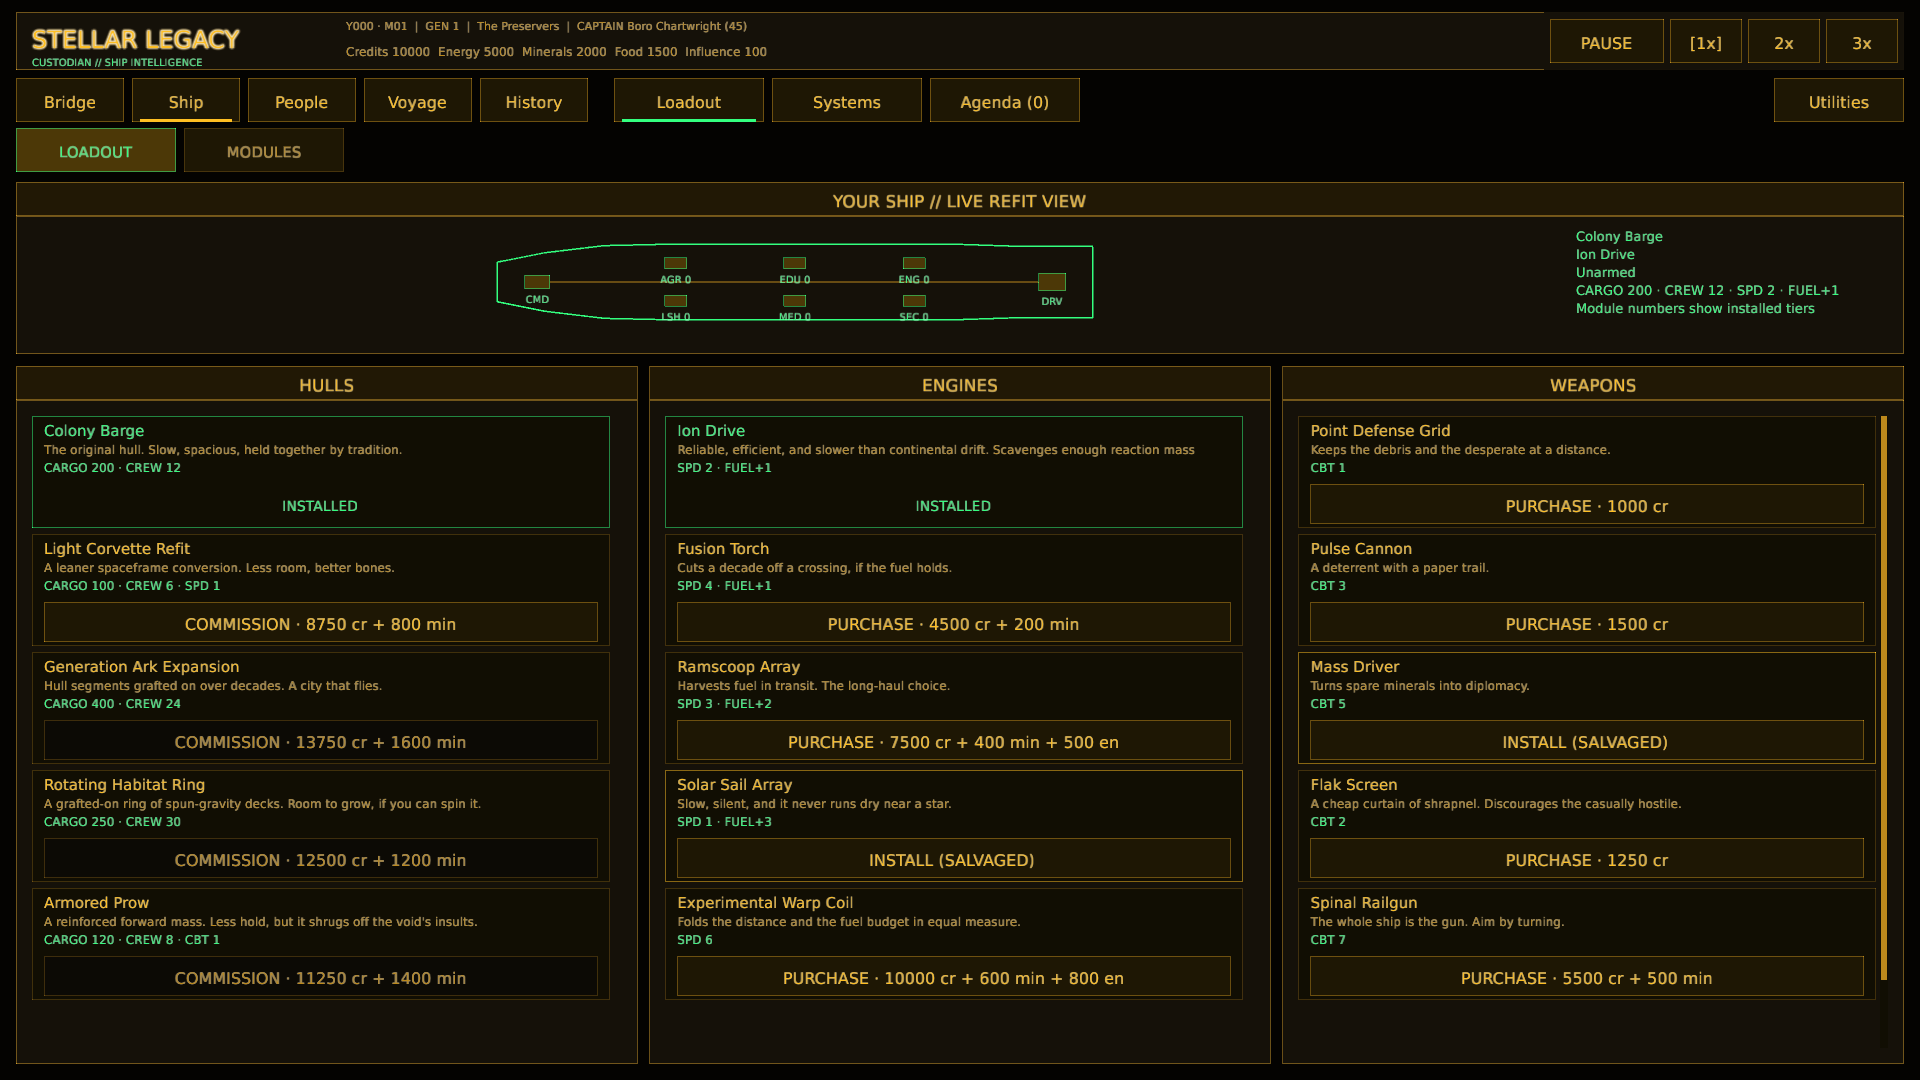
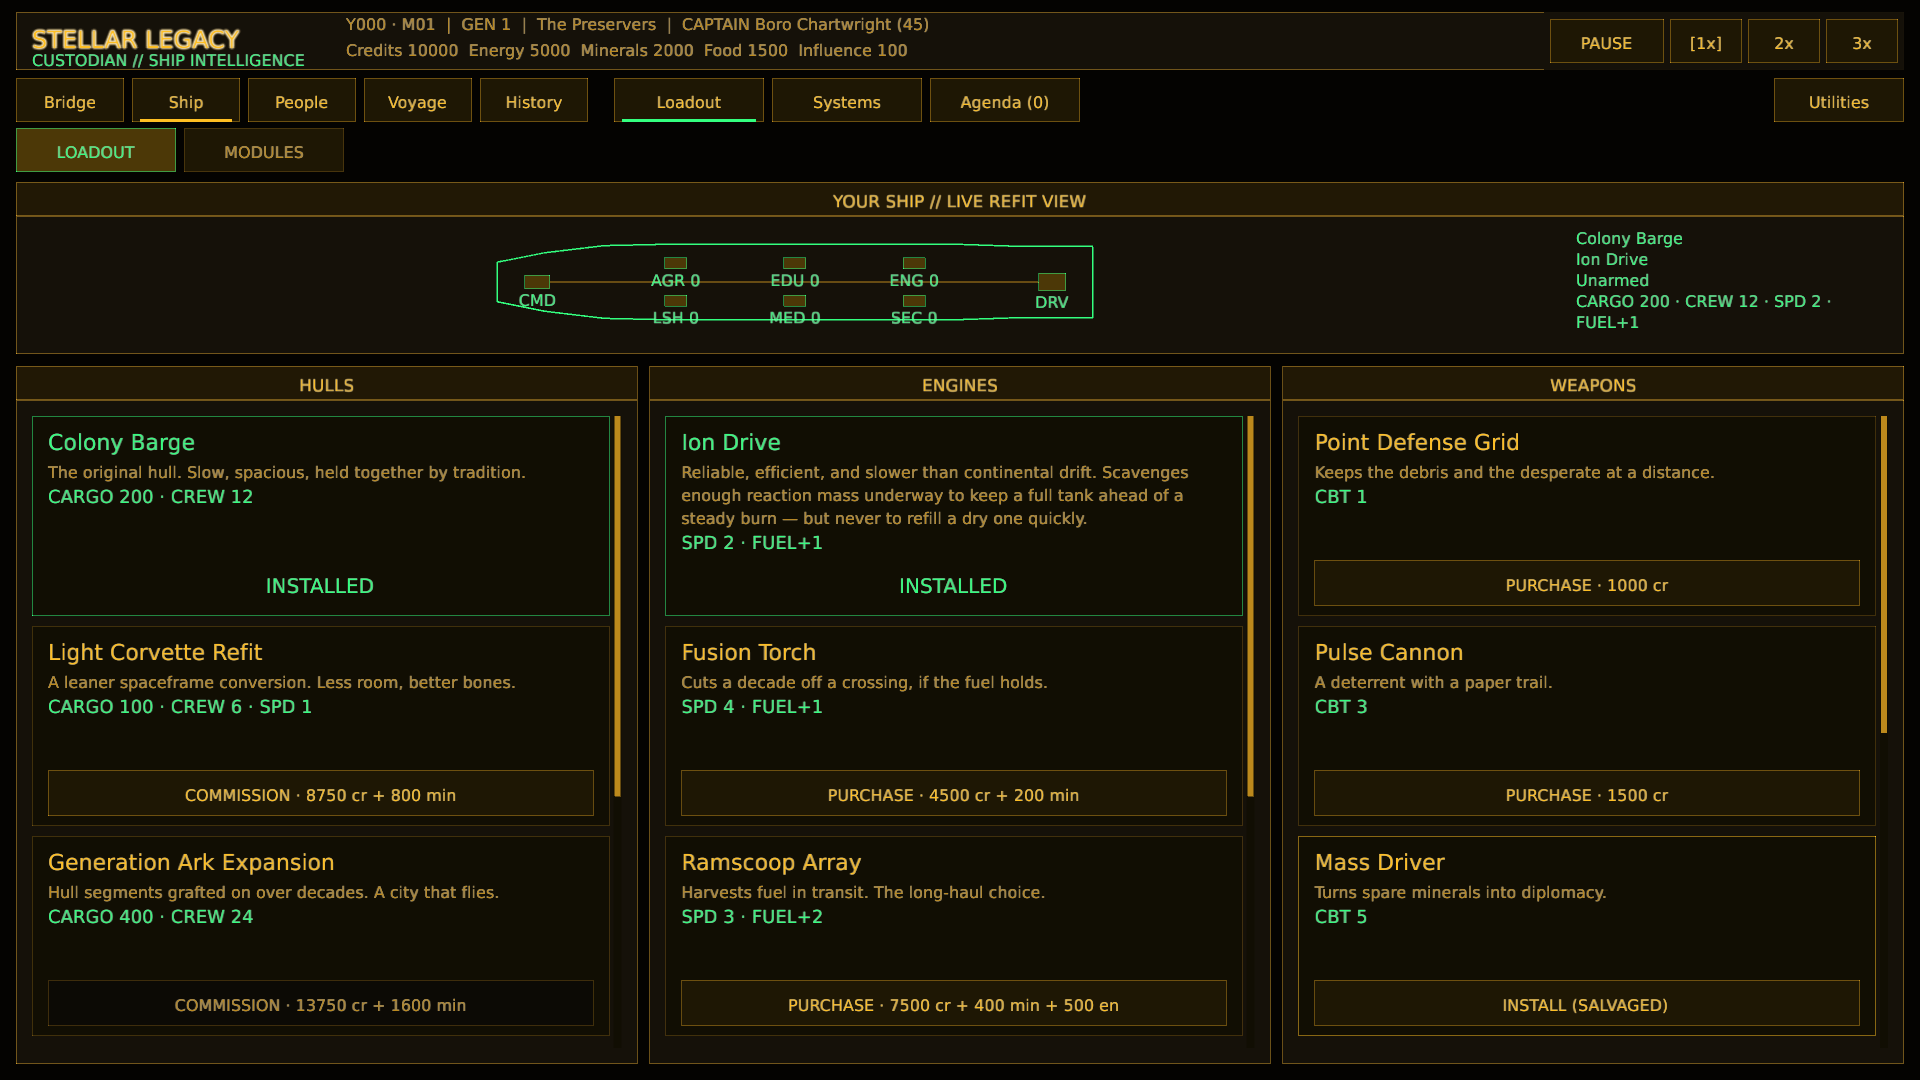
Every refit card tells its whole story (1080p loadout catalogue)
The loadout cards were laid out for 11-15px type in fixed 112px rows. At
the 16px floor the stat line overlapped the blurb, and blurbs such as the
Ion Drive's were cut mid-sentence (CRITICAL_REVIEW B0/B4). Cards are now
200px with a 22px name and the full blurb wrapped through
`reading::flow_text`. The stat line follows the measured blurb, and a
46px action sits on the card's bottom edge. Three cards fill each
1080p column, so the band that culled the third row is gone.

Formatting and strict all-target Clippy pass. The Ship Loadout capture
at 1920x1080 passes the text/modal audit and is refreshed.

diff --git a/src/ui/ship_builder.rs b/src/ui/ship_builder.rs
@@ -84,7 +84,7 @@ fn draw_loadout(ctx: &GameplayCtx<'_>, area: Rect, pointer: Pointer, actions: &m
     ];
     let col_w = (area.w - 24.0) / 3.0;
 
-    const STRIDE: f32 = 118.0;
+    const STRIDE: f32 = CARD_H + 10.0;
     // Gutter reserved at each column's right edge for its scrollbar.
     const GUTTER: f32 = 12.0;
     let mut scrolls = ctx.ship_scroll.get();
@@ -129,7 +129,7 @@ fn draw_loadout(ctx: &GameplayCtx<'_>, area: Rect, pointer: Pointer, actions: &m
 
         let mut y = view.y - scroll.offset();
         for component in cards {
-            let card = Rect::new(view.x, y, card_w, 112.0);
+            let card = Rect::new(view.x, y, card_w, CARD_H);
             // Cull partially-scrolled cards so none spills past the panel.
             if is_fully_visible(card, view) {
                 let installed = is_installed(ctx, *kind, &component.id);
@@ -584,13 +584,18 @@ fn draw_component_surface(rect: Rect, installed: bool, salvaged: bool) {
     );
 }
 
+/// Catalogue card height on the 1080p canvas: name, a full blurb of up to
+/// three lines, the stat line and a 46px action anchored to the bottom.
+/// Three cards fill a column below the refit view.
+const CARD_H: f32 = 200.0;
+
 fn draw_component_info(rect: Rect, component: &ShipComponent, installed: bool) {
     draw_ui_text_ex(
         &component.name,
-        rect.x + 12.0,
-        rect.y + 20.0,
+        rect.x + 16.0,
+        rect.y + 34.0,
         TextStyle::new(
-            15.0,
+            22.0,
             if installed {
                 term::accent()
             } else {
@@ -604,19 +609,17 @@ fn draw_component_info(rect: Rect, component: &ShipComponent, installed: bool) {
     if component.acquisition.is_mission_only() {
         draw_text_right(
             "MISSION REWARD",
-            rect.right() - 12.0,
-            rect.y + 20.0,
-            TextStyle::new(10.0, term::dim()),
+            rect.right() - 16.0,
+            rect.y + 34.0,
+            TextStyle::new(16.0, term::dim()),
         );
     }
-    draw_text_block(
+    let below = crate::ui::reading::flow_text(
         &component.description,
-        rect.x + 12.0,
-        rect.y + 26.0,
-        rect.w - 24.0,
-        24.0,
-        11.0,
-        2.0,
+        rect.x + 16.0,
+        rect.y + 46.0,
+        rect.w - 32.0,
+        16.0,
         term::dim(),
     );
 
@@ -624,9 +627,9 @@ fn draw_component_info(rect: Rect, component: &ShipComponent, installed: bool) {
     if !stats.is_empty() {
         draw_ui_text_ex(
             &stats,
-            rect.x + 12.0,
-            rect.y + 56.0,
-            TextStyle::new(12.0, term::accent()).params(),
+            rect.x + 16.0,
+            below + 18.0,
+            TextStyle::new(18.0, term::accent()).params(),
         );
     }
 }
@@ -663,7 +666,7 @@ fn draw_component_action(
         cost_parts.push(format!("{} en", cost.energy));
     }
 
-    let btn = Rect::new(rect.x + 12.0, rect.y + 68.0, rect.w - 24.0, 40.0);
+    let btn = Rect::new(rect.x + 16.0, rect.bottom() - 56.0, rect.w - 32.0, 46.0);
     if installed {
         draw_text_centered_in_box_ex(
             "INSTALLED",
@@ -671,7 +674,7 @@ fn draw_component_action(
             btn.y,
             btn.w,
             btn.h,
-            TextStyle::new(14.0, term::accent()),
+            TextStyle::new(20.0, term::accent()),
         );
     } else if salvaged {
         // A found part installs from the hold rather than being bought — free
